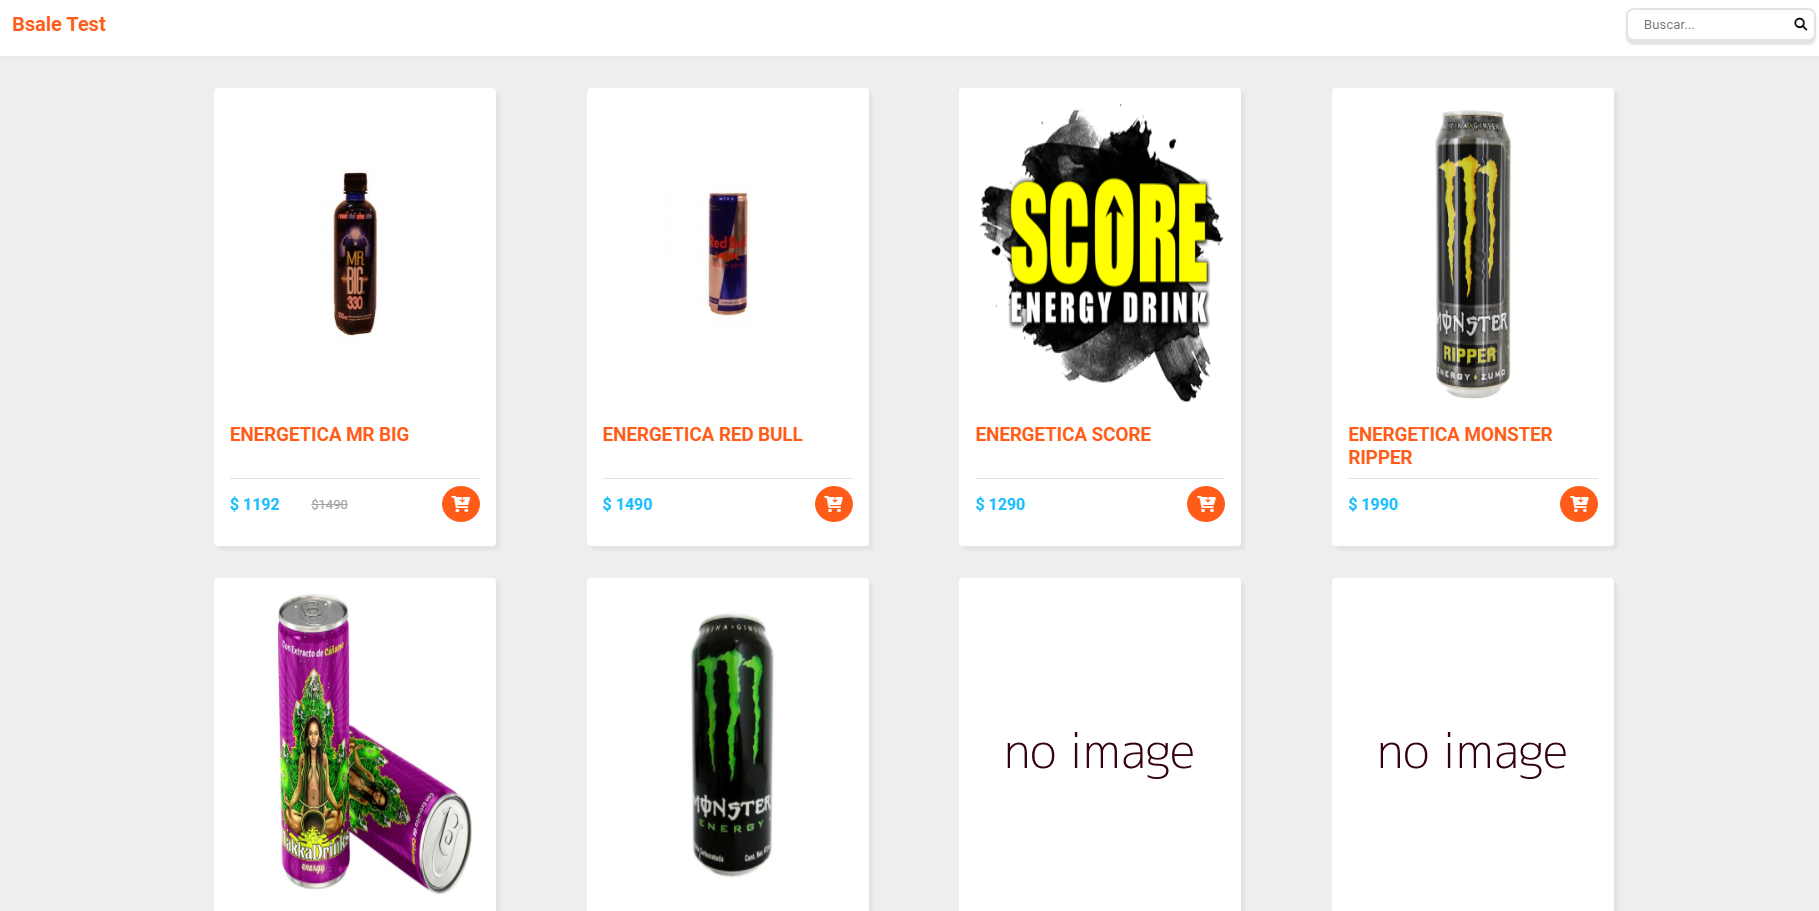
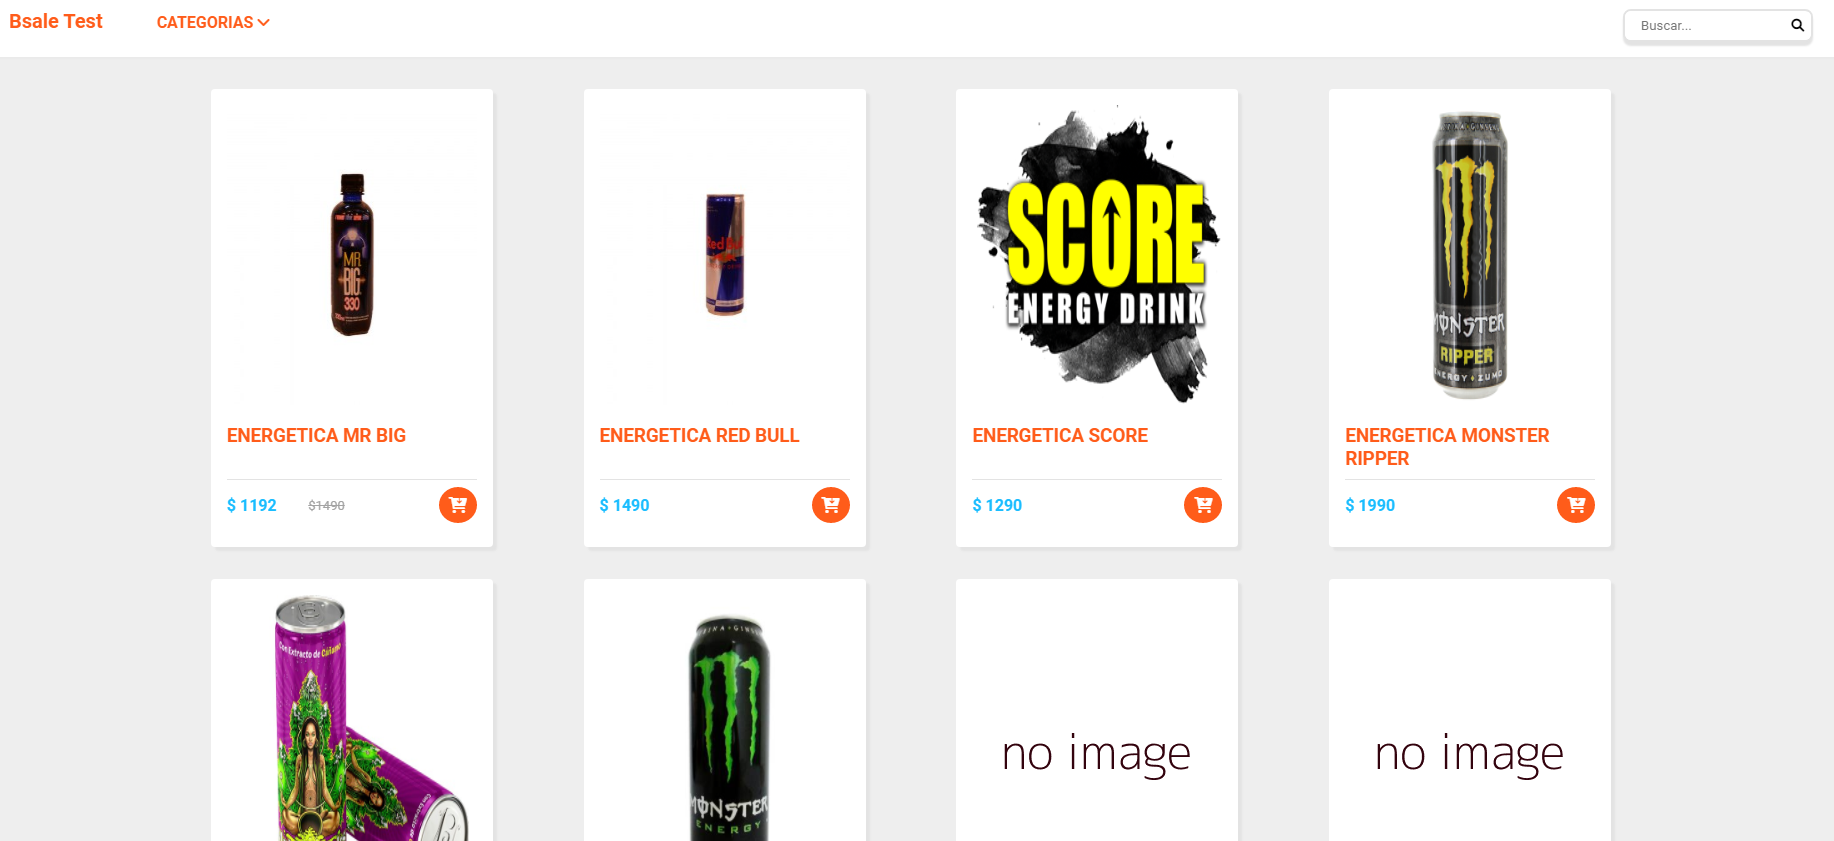
add catergories

diff --git a/frontend/app/assets/styles.css b/frontend/app/assets/styles.css
@@ -1,7 +1,7 @@
 body{
     margin: 0;
     background-color:#eee;
-    font-family: 'Roboto', sans-serif;;
+    font-family: 'Roboto', sans-serif;
 }
 a{
     text-decoration:none;
@@ -127,3 +127,58 @@ input[type="search"]{
 .message{
     font-weight:700;
 }
+.logo{
+    display: inline-block!important;
+}
+.dropdown-btn{
+    background-color: #fff;
+    color:#ff5c1a;
+    font-weight:700;
+    font-family: 'Roboto', sans-serif;
+    border:none;
+    cursor: pointer;
+    font-size: 16px;
+    
+}
+.dropdown{
+    margin-left: 3rem ; 
+    position: relative;
+    display:inline-block;
+}
+.dropdown-contents{
+    display:none;
+    position:absolute;
+    background-color:#fff;
+    min-width: 160px;
+    
+}
+.dropdown-contents a{
+    display:block;
+    padding: 12px 16px;
+}
+
+.dropdown-contents a:hover{
+    background-color:#ff5c1a;
+    color:#fff;
+}
+.dropdown:hover .dropdown-contents{
+    display:block;
+}
+
+.s{
+    display:none;
+}
+@media only screen and (max-width: 600px) {
+    .s {
+      display:block;
+    }
+    .l{
+        display:none;
+    }
+    .form.search-form {
+        width: 150px;
+    }
+    input[type="search"]{
+        width: 7rem;
+    }
+  }

diff --git a/frontend/app/components/Dropdown.js b/frontend/app/components/Dropdown.js
@@ -1,0 +1,16 @@
+export function Dropdown(props){
+    const $dropdown = document.createElement('div'),
+     $dropdownBtn = document.createElement('button'),
+     $dropdownContents = document.createElement('div');
+
+    $dropdownBtn.classList.add('dropdown-btn');
+    $dropdownContents.classList.add('dropdown-contents')
+    $dropdownContents.id="dropdown-contents";
+    $dropdown.classList.add("dropdown");
+    $dropdown.appendChild($dropdownBtn);
+    $dropdown.appendChild($dropdownContents);
+    $dropdownBtn.innerHTML= `<div class ="l">CATEGORIAS <i class="fa-solid fa-angle-down"></i></div>
+        <div class ="s"><i class="fa-solid fa-bars"></i></div>    
+    `;
+    return $dropdown;
+}

diff --git a/frontend/app/components/Title.js b/frontend/app/components/Title.js
@@ -1,12 +1,16 @@
 import api from '../helpers/api.js';
+import { Dropdown } from './Dropdown.js';
 
 export function Title(){
-    const $h1 = document.createElement('div');
-    $h1.classList.add('orange');
-    $h1.classList.add('logo')    
-    $h1.innerHTML=`
+    const $right = document.createElement('div'), $logo = document.createElement('div');
+    $logo.classList.add('orange');
+    $logo.classList.add('logo');
+    $right.classList.add('header-right');   
+    $right.appendChild($logo);
+    $right.appendChild(Dropdown());
+    $logo.innerHTML=`
         <a href="#/">${api.TITLE}</a>
         
     `
-    return $h1;
+    return $right;
 }

diff --git a/frontend/app/components/Router.js b/frontend/app/components/Router.js
@@ -52,6 +52,21 @@ export async function Router(){
     
             }
         })
+    }else if(hash.includes('#/category')){
+        let categoryId = hash.split('/')[2];
+        
+        const query =api.PRODUCTSBYCATEGORIES+categoryId+'/page';
+        await ajax({
+            url: query,
+            cbSuccess: (products) => {
+                console.log(products);
+                let html ="";
+                products.rows.forEach((product) => html +=ProductCard(product));
+                
+                $products.innerHTML= html;
+    
+            }
+        })
     }
 
     d.querySelector(".loader").style.display="none";

diff --git a/frontend/app/components/DropdownMenu.js b/frontend/app/components/DropdownMenu.js
@@ -1,0 +1,21 @@
+import api from '../helpers/api.js';
+import { ajax } from '../helpers/ajax.js';
+import { dropdownContents } from '../components/DropdwonContent.js';
+
+export function dropdownMenu(){
+    const d = document,
+    $dropdownCont = d.getElementById('dropdown-contents');
+
+    ajax({
+        url: api.CATEGORIES,
+        cbSuccess: (caterogies) => {
+            console.log(caterogies);
+            let html ="";
+            caterogies.rows.forEach((caterogies) => html +=dropdownContents(caterogies));
+            
+            $dropdownCont.innerHTML= html;
+
+        }
+    })
+
+}

diff --git a/frontend/app/App.js b/frontend/app/App.js
@@ -4,13 +4,16 @@ import { Loader } from './components/Loader.js';
 import { Products } from './components/Products.js'; 
 import { Router } from './components/Router.js'; 
 import { InfiniteScroll } from './helpers/infiniteScroll.js';
+import { dropdownMenu } from './components/DropdownMenu.js';
+
 export function App(){
     const $root =document.getElementById('root');
      $root.innerHTML =null;
      $root.appendChild(Header());
      $root.appendChild(Products());
      $root.appendChild(Loader());
-
+     
+     dropdownMenu();
      Router();
      InfiniteScroll();
 }

diff --git a/frontend/app/helpers/api.js b/frontend/app/helpers/api.js
@@ -1,7 +1,9 @@
 
-const URL_BASE = 'http://localhost:3000/api',
+const URL_BASE = 'https://vp-bsale-test-api.herokuapp.com/api',
       PRODUCTS=`${URL_BASE}/products/page/`,      
       SEARCH  =`${URL_BASE}/products/search/`,
+      CATEGORIES =`${URL_BASE}/categories/`,
+      PRODUCTSBYCATEGORIES =`${URL_BASE}/products/category/`,
       TITLE= `Bsale Test`;
       
 let page =1;  
@@ -10,6 +12,8 @@ export default{
     URL_BASE,    
     PRODUCTS,
     SEARCH,
+    PRODUCTSBYCATEGORIES,
+    CATEGORIES,
     TITLE,
     page
 };

diff --git a/frontend/app/helpers/infiniteScroll.js b/frontend/app/helpers/infiniteScroll.js
@@ -27,6 +27,10 @@ export async function InfiniteScroll(){
                 apiURL=`${api.PRODUCTS}${api.page}`
             }else if(hash.includes('#/search')){
                 apiURL=`${api.SEARCH}${query}/page/${api.page}`
+            }else if(hash.includes('#/category')){
+                let categoryId = hash.split('/')[2];
+                apiURL=`${api.PRODUCTSBYCATEGORIES}${categoryId}/page/${api.page}`;
+            
             }
             
             await ajax({

diff --git a/frontend/app/components/Header.js b/frontend/app/components/Header.js
@@ -1,10 +1,12 @@
 import { SearchForm } from './SearchForm.js';
 import{ Title } from './Title.js';
 
+
 export function Header(){
     const $header = document.createElement('header');
     $header.classList.add('header');
     $header.appendChild(Title());
+   
     $header.appendChild(SearchForm());
     return $header;
 }

diff --git a/frontend/app/components/DropdwonContent.js b/frontend/app/components/DropdwonContent.js
@@ -1,0 +1,9 @@
+
+export function dropdownContents(props){
+
+    let { id, name } = props;
+    name = name.toUpperCase();
+    return `
+        <a href="#/category/${id}">${name}</a>
+    `
+}
